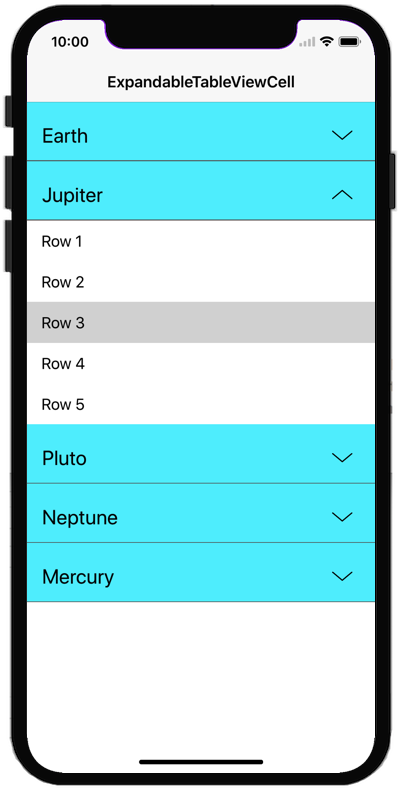
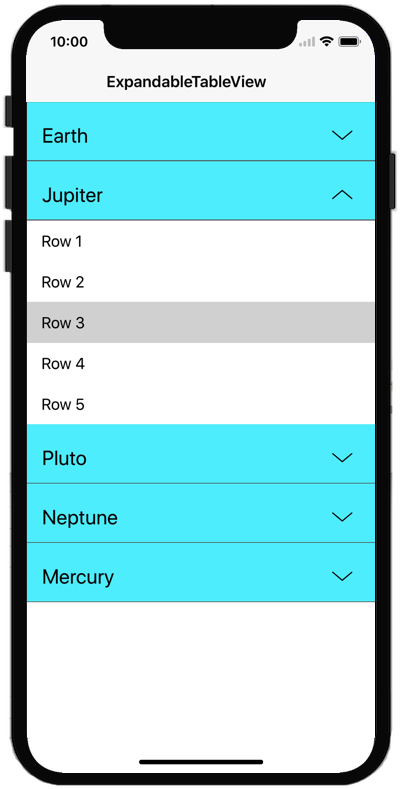
ExpandableTableViewCellExample

diff --git a/README.md b/README.md
@@ -4,7 +4,8 @@ TabBarExample:<br/>
 [![TabBar1](_PNG/TabBar1.png)](_PNG/TabBar1.png)
 [![TabBar2](_PNG/TabBar2.png)](_PNG/TabBar2.png)
 
-ExpandableTableViewCellExample:<br/>
+
+ExpandableTableViewExample:<br/>
 [![ExpandableCell1](_PNG/ExpandableCell1.png)](_PNG/ExpandableCell1.png)
 [![ExpandableCell2](_PNG/ExpandableCell2.png)](_PNG/ExpandableCell2.png)
 <br/>
